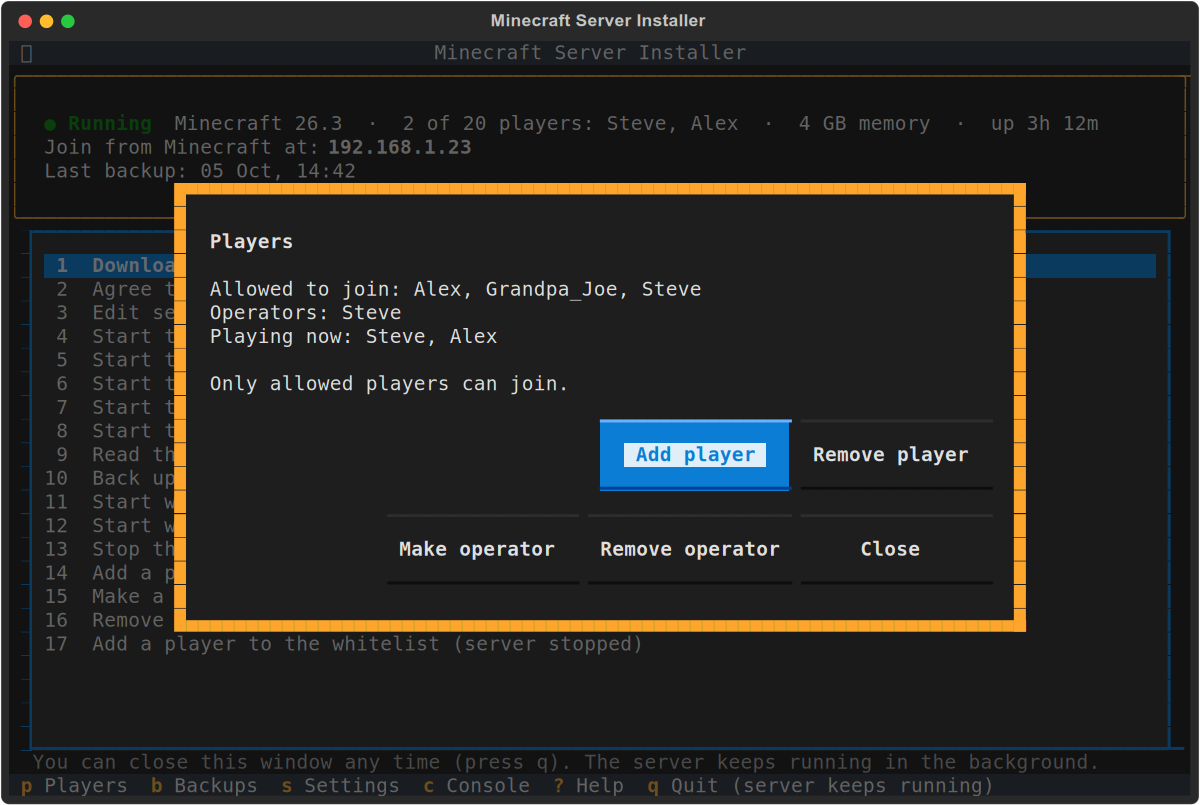
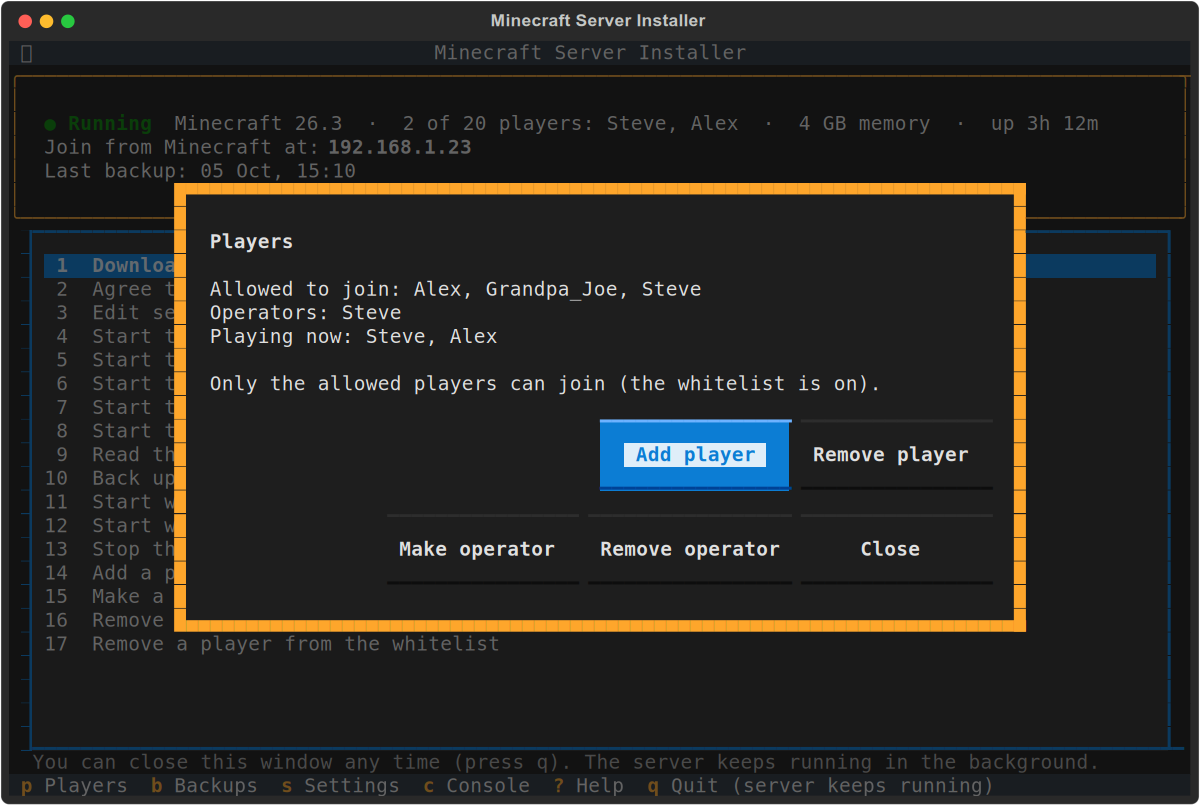
15.0: whitelist optional at setup; option 17 removes; wait for start-up
- Setup no longer asks for a whitelist: leave "Who can play?" empty and
  anyone at home can join (whitelist off, no operator). Naming players
  still turns the whitelist on and makes the first the operator. The
  Players screen, README, store text and built-in help say so, and
  recommend turning the whitelist on before playing over the internet.
- Option 17 is "Remove a player from the whitelist" (it duplicated 14,
  and "(server stopped)" read as if it stopped the server).
- A command typed while the server is still starting waits for "Done"
  (up to 2 min, or until Java exits) instead of returning the next
  start-up line as its "reply" - found adding a player right after
  setup. The status shows "Starting…" until then.

Tested in an LXD VM: blank setup (white-list=false, no ops), 17 while
running and stopped, whitelist sent at once after start (waited 11 s,
real reply), stop right after start (console-again, 11 s, clean).

Changed region(s): [[0.2158, 0.4658, 0.74, 0.4969], [0.0617, 0.7764, 0.5242, 0.8075], [0.2775, 0.1863, 0.3083, 0.2174]]

diff --git a/src/mcsi/menu.py b/src/mcsi/menu.py
@@ -47,7 +47,7 @@ OPTIONS = {
     14: "Add a player to the whitelist",
     15: "Make a player an operator",
     16: "Remove a player's operator status",
-    17: "Add a player to the whitelist (server stopped)",
+    17: "Remove a player from the whitelist",
 }
 START_RAM = {4: 2048, 5: 4096, 6: 6144, 7: 8192, 8: 16384}
 
@@ -70,8 +70,10 @@ was running before.
 
 ## Good to know
 
-- **Who can play:** add your family with option 14. Turn on
-  `white-list=true` in the settings (option 3) so only they can join.
+- **Who can play:** anyone at home, unless you choose otherwise. To allow
+  only certain players, add them (option 14, or press **p**) and turn on the
+  whitelist in Settings (press **s**). Do that before letting people join
+  over the internet.
 - **Operators** (option 15) can use cheats and server commands in the game.
 - **Backups** (press **b**): daily while the server runs (the newest 7 are
   kept), before every update and restore, and whenever you choose option 10,
@@ -127,7 +129,10 @@ def memory_label(mb):
 def status_text(s):
     """The status panel, from the service's status reply."""
     lines = []
-    if s["running"]:
+    if s["running"] and not s.get("ready", True):
+        lines.append(f"[b yellow]◐ Starting…[/]  {server_label(s)}  ·  ready to join in a minute "
+                     "or so")
+    elif s["running"]:
         players = s.get("players", [])
         who = f": {', '.join(players)}" if players else ""
         lines.append(f"[b green]● Running[/]  {server_label(s)}  ·  "
@@ -367,17 +372,20 @@ class Setup(Screen):
             field.value = self.answers.get("memory", memory_label(self.memory).replace(" ", ""))
             field.placeholder = "for example 2G or 4096M"
         elif name == "players":
-            text.update("[b]Who can play?[/]\n\nType everyone's Minecraft name, separated by commas. "
-                        "Only these players can join. The [b]first name[/] becomes the operator, who "
-                        "can use cheats and server commands in the game.")
+            text.update("[b]Who can play?[/]\n\nLeave this empty and anyone at home can join - "
+                        "that's how most families use it.\n\nOr, to allow only certain players, type "
+                        "their Minecraft names, separated by commas. The [b]first name[/] becomes the "
+                        "operator, who can use cheats and server commands in the game. You can change "
+                        "this later (press p).")
             field.value = self.answers.get("players", "")
             field.placeholder = "for example Steve, Alex"
         elif name == "ready":
-            players = ", ".join(self.answers["names"])
+            names = self.answers["names"]
+            players = (f"only {', '.join(names)} (operator: {names[0]})" if names
+                       else "anyone at home can join")
             text.update(f"[b]Ready[/]\n\nServer name: {self.answers['motd']}\nMemory: "
-                        f"{memory_label(self.answers['ram_mb'])}\nPlayers: {players} "
-                        f"(operator: {self.answers['names'][0]})\n\nThis downloads the latest "
-                        "Minecraft server and starts it.")
+                        f"{memory_label(self.answers['ram_mb'])}\nPlayers: {players}"
+                        "\n\nThis downloads the latest Minecraft server and starts it.")
         if field.display:
             field.focus()
         else:
@@ -413,10 +421,9 @@ class Setup(Screen):
         elif name == "players":
             names = [n.strip() for n in value.split(",") if n.strip()]
             bad = [n for n in names if not PLAYER_NAME.match(n)]
-            if not names or bad:
-                self.notify("Type at least one Minecraft name. Names are 3 to 16 letters, "
-                            "digits or underscores." + (f" Not valid: {', '.join(bad)}" if bad else ""),
-                            severity="error", timeout=8)
+            if bad:
+                self.notify("Minecraft names are 3 to 16 letters, digits or underscores. "
+                            f"Not valid: {', '.join(bad)}", severity="error", timeout=8)
                 return
             self.answers.update(players=value, names=names)
         self.step += 1
@@ -435,8 +442,11 @@ class Setup(Screen):
         a = self.answers
         try:
             client.request("accept-eula"); say("✓ Agreed to the Minecraft EULA")
-            client.request("settings", motd=a["motd"], white_list=True, ram_mb=a["ram_mb"])
-            say("✓ Saved the server name and memory; only your players can join")
+            # Naming players turns the whitelist on; otherwise anyone at home can join.
+            client.request("settings", motd=a["motd"], white_list=bool(a["names"]), ram_mb=a["ram_mb"])
+            say("✓ Saved the server name and memory")
+            if not a["names"]:
+                say("✓ Anyone at home can join")
             for number, player in enumerate(a["names"]):
                 client.request("whitelist", name=player)
                 if number == 0:
@@ -490,9 +500,9 @@ class Players(ModalScreen[None]):
                     f"Allowed to join: {', '.join(p['whitelist']) or 'nobody yet'}\n"
                     f"Operators: {', '.join(p['ops']) or 'none'}\n"
                     f"Playing now: {', '.join(p['online']) or 'nobody'}\n\n"
-                    + ("Only allowed players can join." if p["white_list_on"] else
-                       "[yellow]The whitelist is off: anyone who knows the address can join. "
-                       "Turn it on in Settings (s).[/]"))
+                    + ("Only the allowed players can join (the whitelist is on)." if p["white_list_on"]
+                       else "Anyone at home can join. To allow only the players listed above, "
+                            "turn on the whitelist in Settings (s)."))
         self.app.call_from_thread(self.query_one("#players-text", Static).update, text)
 
     def on_button_pressed(self, event):
@@ -822,9 +832,12 @@ class Menu(App):
                                      "The world is saved first."),
                              lambda yes: yes and self.ask_service(
                                  "stop", "Saving the world and stopping…", "The server has stopped."))
-        elif number in (14, 17):
+        elif number == 14:
             self.push_screen(Ask("Which Minecraft name should be allowed to join?"),
                              lambda name: name and self.player("whitelist", name))
+        elif number == 17:
+            self.push_screen(Ask("Which player should no longer be allowed to join?"),
+                             lambda name: name and self.player("unwhitelist", name))
         elif number == 15:
             self.push_screen(Ask("Which Minecraft name should become an operator? "
                                  "Operators can use cheats and server commands."),

diff --git a/src/mcsi/service.py b/src/mcsi/service.py
@@ -65,6 +65,7 @@ BACKUPS_KEPT = 7          # of each automatic kind (daily, before-restore, befor
 DAY = 86400
 HOUSEKEEPING_FIRST = 60   # seconds after the service starts
 HOUSEKEEPING_EVERY = 3600
+STARTUP_WAIT = 120        # seconds a command waits for the server to finish starting
 
 # Requests anyone on the computer may make; everything else is the owner's.
 READ_ONLY = {"status", "log", "get-properties", "list-backups", "players"}
@@ -77,6 +78,7 @@ LOG_PREFIX = re.compile(r"^\[\d\d:\d\d:\d\d\] \[[^\]]+\]: ")
 # Server-thread lines only: chat is printed as "<name> text", so a player
 # cannot fake these by typing them.
 JOINED = re.compile(r"^\[\d\d:\d\d:\d\d\] \[Server thread/INFO\]: ([A-Za-z0-9_]{3,16}) joined the game$")
+DONE = re.compile(r"^\[\d\d:\d\d:\d\d\] \[Server thread/INFO\]: Done \(")
 LEFT = re.compile(r"^\[\d\d:\d\d:\d\d\] \[Server thread/INFO\]: ([A-Za-z0-9_]{3,16}) left the game$")
 
 
@@ -165,6 +167,7 @@ class Server:
         self.lines = collections.deque(maxlen=LOG_LINES)  # (sequence number, text)
         self.line_seq = 0
         self.online = []  # players, from the server's join/leave lines
+        self.ready = asyncio.Event()  # set when the server says "Done" after starting
 
     @property
     def running(self):
@@ -229,6 +232,7 @@ class Server:
         asyncio.create_task(self.pump(self.process, console_path))
         self.started_at = time.time()
         self.online = []
+        self.ready = asyncio.Event()
         self.stopping = False
         self.problem = None
         self.state.update(desired="running", ram_mb=ram_mb)
@@ -249,6 +253,8 @@ class Server:
                 text = line.decode(errors="replace").rstrip()
                 self.line_seq += 1
                 self.lines.append((self.line_seq, text))
+                if not self.ready.is_set() and DONE.match(text):
+                    self.ready.set()
                 if match := JOINED.match(text):
                     self.online.append(match.group(1))
                 elif (match := LEFT.match(text)) and match.group(1) in self.online:
@@ -265,6 +271,17 @@ class Server:
         """
         if "\n" in text or "\r" in text:
             raise Refused("A command must be a single line.")
+        # Typed while the server is still starting, a command's "reply" would be
+        # whatever start-up line comes next - so wait until it is ready.
+        deadline = time.monotonic() + STARTUP_WAIT
+        while not self.ready.is_set():
+            if not self.running:  # it stopped (or crashed) while starting
+                raise Refused("The server is not running.")
+            if time.monotonic() > deadline:
+                raise Refused("The server is still starting. Try again in a minute.")
+            await asyncio.sleep(0.5)
+        if not self.running:
+            raise Refused("The server is not running.")
         async with self.console_lock:
             queue = asyncio.Queue()
             self.listeners.append(queue)
@@ -390,6 +407,7 @@ class Server:
         if self.running:
             reply["pid"] = self.process.pid
             reply["uptime_s"] = int(time.time() - self.started_at)
+            reply["ready"] = self.ready.is_set()
             reply["players"] = list(self.online)
             reply["players_max"] = int(props.get("max-players") or 20)
         return reply

diff --git a/README.md b/README.md
@@ -33,11 +33,12 @@ mc-server-installer
 
 ## First run
 
-The first time, a short setup asks a few questions - a name for your server, how
-much memory it may use (it suggests an amount for your computer), and who may
-play - then downloads Minecraft and starts the server.
+The first time, a short setup asks a few questions - a name for your server and
+how much memory it may use (it suggests an amount for your computer) - then
+downloads Minecraft and starts the server. Anyone at home can join; if you'd
+rather allow only certain players, the setup lets you name them.
 
-![Setup asks for everyone's Minecraft name; the first becomes the operator](docs/screenshots/setup-players.png)
+![Setup asks who may play: leave it empty and anyone at home can join](docs/screenshots/setup-players.png)
 
 When it is done, it shows the address to use. On every computer that should
 play: open Minecraft, choose **Multiplayer**, then **Add Server**, and type that
@@ -115,8 +116,8 @@ background server. The original files stay where they were, as a backup.
 
 The server is reachable by anyone on your home network. To let friends join over
 the internet, forward **TCP port 25565** on your router to this computer, and
-give them your public IP address. Keep the whitelist on, so only the players you
-added can join. (A guided setup for this is planned for a later version.)
+give them your public IP address. First turn the whitelist on (Settings, **s**)
+and add each player (**p**), so only the players you added can join. (A guided setup for this is planned for a later version.)
 
 ## Where things are
 
